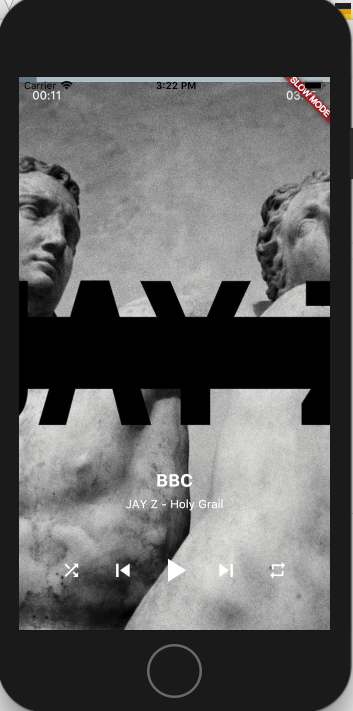
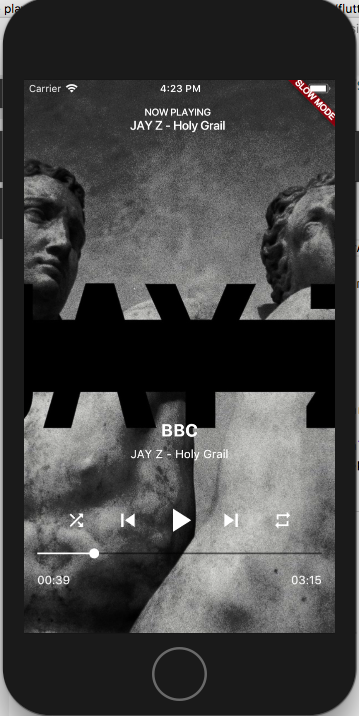
Stylish example

diff --git a/example/lib/main.dart b/example/lib/main.dart
@@ -14,38 +14,89 @@ class MyApp extends StatelessWidget {
   Widget build(BuildContext context) {
     return new MaterialApp(
       theme: new ThemeData(
-        primarySwatch: Colors.blueGrey,
+        primarySwatch: Colors.blue,
       ),
-      home: new Scaffold(
+      home: new MusicPlayerExample(),
+    );
+  }
+}
+
+class MusicPlayerExample extends StatefulWidget {
+  @override
+  State<StatefulWidget> createState() {
+    return new _MusicPlayerExampleState();
+  }
+}
+
+class _MusicPlayerExampleState extends State<MusicPlayerExample> {
+  MusicPlayerLoopKind loopKind;
+  bool shuffle = false;
+
+  @override
+  Widget build(BuildContext context) {
+    return new Container(
+      decoration: new BoxDecoration(
+        image: new DecorationImage(
+          image: new NetworkImage(coverArt),
+          fit: BoxFit.cover,
+          colorFilter: new ColorFilter.mode(
+            Colors.black54,
+            BlendMode.overlay,
+          ),
+        ),
+      ),
+      child: new Scaffold(
         backgroundColor: Colors.transparent,
-        body: new MusicPlayer(
-          key: musicPlayerKey,
-          onError: (e) {
-            Scaffold.of(context).showSnackBar(
-                  new SnackBar(
-                    content: new Text(e),
-                  ),
-                );
-          },
-          textColor: Colors.white,
-          url: mp3Url,
-          title: const Text(
-            'BBC',
-            textAlign: TextAlign.center,
-            textScaleFactor: 1.5,
-            style: const TextStyle(
-              fontWeight: FontWeight.bold,
-              color: Colors.white,
+        appBar: new AppBar(
+          automaticallyImplyLeading: false,
+          backgroundColor: Colors.transparent,
+          elevation: 0.0,
+          title: new Column(
+            mainAxisSize: MainAxisSize.min,
+            children: <Widget>[
+              const Text(
+                'NOW PLAYING',
+                textScaleFactor: 0.60,
+              ),
+              const Text(
+                'JAY Z - Holy Grail',
+                textScaleFactor: 0.75,
+              ),
+            ],
+          ),
+        ),
+        body: new Padding(
+          padding: const EdgeInsets.only(bottom: 48.0),
+          child: new MusicPlayer(
+            onError: (e) {
+              Scaffold.of(context).showSnackBar(
+                    new SnackBar(
+                      content: new Text(e),
+                    ),
+                  );
+            },
+            key: musicPlayerKey,
+            textColor: Colors.white,
+            loop: loopKind,
+            shuffle: shuffle,
+            url: mp3Url,
+            title: const Text(
+              'BBC',
+              textAlign: TextAlign.center,
+              textScaleFactor: 1.5,
+              style: const TextStyle(
+                fontWeight: FontWeight.bold,
+                color: Colors.white,
+              ),
+            ),
+            subtitle: const Text(
+              'JAY Z - Holy Grail',
+              textAlign: TextAlign.center,
+              style: const TextStyle(
+                color: Colors.white,
+              ),
             ),
           ),
-          subtitle: const Text(
-            'JAY Z - Holy Grail',
-            textAlign: TextAlign.center,
-            style: const TextStyle(
-              color: Colors.white,
-            ),
-          ),
-          artwork: new NetworkImage(coverArt),
         ),
       ),
     );

diff --git a/lib/music_player.dart b/lib/music_player.dart
@@ -10,8 +10,6 @@ enum MusicPlayerLoopKind {
 class MusicPlayer extends StatefulWidget {
   final String url;
 
-  final ImageProvider artwork;
-
   final Widget title;
 
   final Widget subtitle;
@@ -33,7 +31,6 @@ class MusicPlayer extends StatefulWidget {
   const MusicPlayer(
       {@required this.onError,
       @required this.url,
-      @required this.artwork,
       @required this.title,
       @required this.subtitle,
       this.textColor,
@@ -220,65 +217,32 @@ class MusicPlayerState extends State<MusicPlayer> {
           ],
         ),
       ),
+      new Slider(
+        onChanged: (value) {
+          if (duration != null) {
+            var seconds = duration.inSeconds * value;
+            audioPlayer.seek(seconds);
+          }
+        },
+        value: value ?? 0.0,
+        activeColor: widget.textColor,
+      ),
+      new Padding(
+        padding: const EdgeInsets.symmetric(
+          horizontal: 16.0,
+          vertical: 8.0,
+        ),
+        child: _time(context),
+      ),
     ];
   }
 
   @override
   Widget build(BuildContext context) {
-    return new Container(
-      decoration: new BoxDecoration(
-        image: new DecorationImage(
-          image: widget.artwork,
-          fit: BoxFit.cover,
-          //colorFilter: new ColorFilter.mode(color, blendMode),
-        ),
-        /*gradient: new LinearGradient(
-            begin: Alignment.topCenter,
-            end: Alignment.bottomCenter,
-            colors: [
-              new Color.fromRGBO(104, 99, 93, 0.5),
-              new Color.fromRGBO(198, 182, 156, 0.5),
-              Colors.white,
-            ],
-          ),*/
-      ),
-      child: new Padding(
-        padding: const EdgeInsets.only(
-          bottom: 48.0,
-        ),
-        child: new Column(
-          crossAxisAlignment: CrossAxisAlignment.stretch,
-          mainAxisAlignment: MainAxisAlignment.spaceBetween,
-          children: <Widget>[
-            /*new Material(
-          elevation: 2.0,
-          child: widget.artwork,
-        ),*/
-            new Column(
-              crossAxisAlignment: CrossAxisAlignment.stretch,
-              mainAxisSize: MainAxisSize.min,
-              children: <Widget>[
-                new LinearProgressIndicator(
-                  value: value,
-                ),
-                new Padding(
-                  padding: const EdgeInsets.symmetric(
-                    horizontal: 16.0,
-                    vertical: 8.0,
-                  ),
-                  child: _time(context),
-                ),
-              ],
-            ),
-            //const Divider(color: Colors.transparent),
-            new Column(
-              crossAxisAlignment: CrossAxisAlignment.stretch,
-              mainAxisSize: MainAxisSize.min,
-              children: _hud(context),
-            ),
-          ],
-        ),
-      ),
+    return new Column(
+      crossAxisAlignment: CrossAxisAlignment.stretch,
+      mainAxisAlignment: MainAxisAlignment.end,
+      children: _hud(context),
     );
   }
 }
